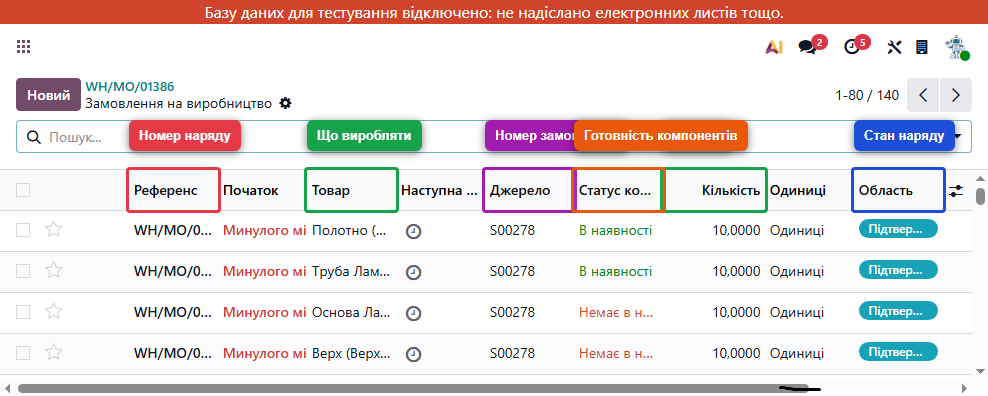
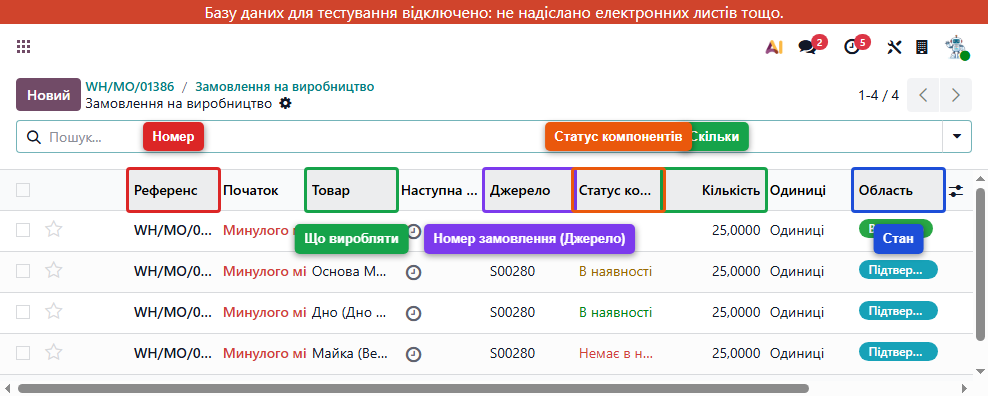
Add glossary, replace 'наряд' with 'замовлення на виробництво', add screenshots 02-10

diff --git a/README.md b/README.md
@@ -1,141 +1,156 @@
 # Як працювати з виробництвом біг-бегів в Odoo
 
-Цей документ — для команди MidasPack. Для всіх, хто проводить наряди на виробництво в Odoo і відвантажує готовий товар клієнтам. Усе показано покроково: куди заходити, що бачиш на екрані, що натискати, що відбувається після.
+Цей документ — для команди MidasPack. Для всіх, хто проводить замовлення на виробництво в Odoo і відвантажує готовий товар клієнтам. Усе показано покроково: куди заходити, що бачиш на екрані, що натискати, що відбувається після.
 
-Зверни увагу: за створення замовлень (з клієнтом, розмірами і кількістю) відповідає **конфігуратор MidasPack** — окрема програма, у якій працюють менеджери продажу. У Odoo замовлення прилітає вже готове. Тобі в Odoo не треба нічого створювати руками — лише виконувати наряди, які з'являються.
+Зверни увагу: за створення замовлень (з клієнтом, розмірами і кількістю) відповідає **конфігуратор MidasPack** — окрема програма, у якій працюють менеджери продажу. У Odoo замовлення прилітає вже готове. Тобі в Odoo не треба нічого створювати руками — лише виконувати замовлення на виробництво, які з'являються.
 
 ---
 
-## 1. Куди заходити, щоб побачити нові наряди
+## Глосарій термінів
 
-Кожне замовлення з конфігуратора, як менеджер натисне «Odoo →», породжує в Odoo список нарядів на виробництво. Щоб їх побачити, заходимо в модуль виробництва.
+Щоб не плутати — три головні документи, які бачитимеш в Odoo:
+
+- **Замовлення на продаж** (англійською Sales Order, SO). Створюється з конфігуратора, коли менеджер оформлює замовлення клієнта. Містить клієнта, товар (наприклад «Майка»), кількість. У Odoo лежить у меню **Продажі**.
+- **Замовлення на виробництво** (англійською Manufacturing Order, MO). Це **виробниче завдання** — «виготовити стільки-то того-то». Створюється Odoo автоматично з замовлення на продаж. Лежить у меню **Виробництво → Операції → Замовлення на виробництво**. Це **основний документ, з яким ти працюєш**.
+- **Замовлення на доставку** (англійською Delivery Order). Створюється Odoo автоматично, коли головне замовлення на виробництво завершилось. Це для складу — щоб відвантажити клієнту. Лежить у меню **Склад → Операції → Замовлення на доставку**.
+
+Ще терміни, які знадобляться по ходу:
+
+- **Дочірнє замовлення на виробництво** — це замовлення на виробництво окремої частини біг-бега (наприклад Полотно, Дно, Основа). Виконуються першими.
+- **Головне замовлення на виробництво** — це замовлення на сам готовий біг-бег. Виконується в кінці, коли всі частини зроблені.
+
+---
+
+## 1. Куди заходити, щоб побачити нові замовлення на виробництво
+
+Кожне замовлення на продаж з конфігуратора, як менеджер натисне «Odoo →», породжує в Odoo одне або кілька замовлень на виробництво. Щоб їх побачити, заходимо в модуль виробництва.
 
 **Шлях у меню:** Виробництво → Операції → Замовлення на виробництво.
 
-![Список нарядів](screenshots/01-list-mo.png)
+![Список замовлень на виробництво](screenshots/01-list-mo.png)
 
-На цьому екрані ти бачиш усі наряди — і свіжі, і ті, що вже в роботі або виконані. Колонки кажуть тобі:
+На цьому екрані ти бачиш усі замовлення на виробництво — і свіжі, і ті, що вже в роботі, і виконані. Колонки кажуть тобі:
 
-- **Номер** — унікальний код наряду (типу WH/MO/01386). Це твій орієнтир.
+- **Референс (номер)** — унікальний код, типу WH/MO/01386. Це твій орієнтир для пошуку.
 - **Товар** — що саме треба виробити.
 - **Кількість** — скільки штук за планом.
-- **Походження** — звідки прилетів цей наряд (це номер клієнтського замовлення, типу S00280).
-- **Стан** — на якій стадії наряд: Чернетка → Підтверджено → У процесі → Виконано.
+- **Джерело** — номер замовлення на продаж, від якого прилетіло (типу S00280). За цим номером можна знайти всі споріднені замовлення на виробництво.
+- **Статус компонентів** — кольоровий значок: **В наявності** (зелений) = все є, можна робити; **Очікує** = чекає інше замовлення; **Немає в наявності** (червоний) = бракує сировини.
+- **Область (стан)** — на якій стадії: Чернетка → Підтверджено → У процесі → Виконано.
 
-Твоя задача в чергу — взяти в роботу наряди зі станом **«Підтверджено»** і **зеленою позначкою готовності**. Як їх розпізнати — у наступному розділі.
+Твоя задача в чергу — взяти в роботу замовлення на виробництво зі станом **«Підтверджено»** і **зеленою позначкою «В наявності»**. Як їх розпізнати — у наступному розділі.
 
 ---
 
-## 2. Як читається один наряд
+## 2. Як читається одне замовлення на виробництво
 
-Натисни на рядок наряду в списку — відкриється повна форма. Тут вся інформація про цей конкретний наряд.
+Натисни на рядок у списку — відкриється повна форма замовлення на виробництво. Тут вся інформація про це конкретне виробниче завдання.
 
-![Форма наряду](screenshots/02-mo-form.png)
+![Форма замовлення на виробництво](screenshots/02-mo-form.png)
 
 Що ти бачиш на формі:
 
-- **Номер наряду** угорі великими літерами.
+- **Номер** угорі великими літерами (наприклад WH/MO/01388).
 - **Товар і кількість** — що і скільки виробляєш.
 - **Стан** угорі справа (Чернетка / Підтверджено / Виконано) — підсвічений поточний.
-- **Готовність компонентів** — кольоровий індикатор: зелена «В наявності» (все готово) або «Немає в наявності» (бракує). Це найважливіше для рішення «можна робити чи ще ні».
+- **Статус компонентів** — кольоровий індикатор: зелена **«В наявності»** або **«Немає в наявності»**. Це найважливіше для рішення «можна робити чи ще ні».
+- **Специфікація** — рецепт, за яким виробляється (Odoo сам підставляє).
 - **Вкладка «Компоненти»** внизу — список того, що буде використано у виробництві. Поряд з кожним компонентом теж є кольоровий значок.
 
-Просте правило: **стан «Підтверджено» + усі компоненти «В наявності» → можна виробляти**. Усе інше — поки чекаємо або з'ясовуємо.
+Просте правило: **стан «Підтверджено» + статус компонентів «В наявності» → можна виробляти**. Усе інше — поки чекаємо або з'ясовуємо.
 
 ---
 
-## 3. Одне замовлення = кілька нарядів
+## 3. Одне замовлення на продаж = кілька замовлень на виробництво
 
-Один біг-бег складається з кількох частин: полотно, дно, основа, стропи, верх. Тому Odoo на одне клієнтське замовлення створює **відразу декілька нарядів** — окремий під кожну частину, плюс один окремий на сам готовий біг-бег.
+Один біг-бег складається з кількох частин: полотно, дно, основа, стропи, верх. Тому Odoo на одне замовлення на продаж створює **відразу декілька замовлень на виробництво** — окреме під кожну частину, плюс одне окреме на сам готовий біг-бег.
 
-Наряди в одному замовленні мають однакове **Походження** (наприклад, усі з S00280). Так можна побачити, що це «одна команда нарядів».
+Замовлення на виробництво від однієї покупки мають однакове **Джерело** (наприклад, усі з S00280). Так ти бачиш, що це «одна команда» виробничих завдань.
 
-**Послідовність виробництва — знизу вгору.** Спочатку роби наряди на прості частини (типу Полотна), потім — на складніші частини (Дно, Основа), і **в останню чергу** — наряд на сам готовий біг-бег.
+**Послідовність виробництва — знизу вгору.** Спочатку роби замовлення на виробництво окремих частин (типу Полотна), потім — на більші частини (Дно, Основа), і **в останню чергу** — головне замовлення на сам готовий біг-бег.
 
-Як зрозуміти, що йде «першим»: дивись на готовність компонентів.
-- Зелена «В наявності» **одразу** — найпростіший наряд, починай з нього.
-- «Очікує» — наряд чекає, поки іншій буде виконаний. До нього доберешся пізніше.
+Як зрозуміти, що йде «першим»: дивись на статус компонентів.
+- Зелена **«В наявності»** одразу — найпростіше дочірнє замовлення, починай з нього.
+- «Очікує» — це замовлення чекає, поки інше буде виконане. До нього доберешся пізніше.
 
-![Список зі стрілками послідовності](screenshots/03-order-of-mo.png)
+![Послідовність виконання](screenshots/03-order-of-mo.png)
 
 ---
 
 ## 4. Один цикл виробництва — крок за кроком
 
-Робимо живий приклад: виконуємо наряд **WH/MO/01389 — Полотно (100, 130, 100), 25 шт**.
+Робимо живий приклад: виконуємо дочірнє замовлення на виробництво **WH/MO/01388 — Дно (Дно глухе, 90, 130), 25 шт**.
 
-**Крок 1.** Знайди наряд у списку, клацни — відкриється форма. Перевір: стан «Підтверджено», компоненти «В наявності» (зелене).
+**Крок 1.** Знайди замовлення в списку (можна через пошук зверху, ввівши `01388`), клацни — відкриється форма. Перевір: стан «Підтверджено», статус компонентів «В наявності» (зелене).
 
 ![Форма перед запуском](screenshots/04-before-validate.png)
 
 **Крок 2.** Натисни рожеву кнопку **«Виготовити все»** угорі ліворуч.
 
-![Кнопка Виготовити все](screenshots/05-button-make-all.png)
-
 **Що станеться одразу:**
 - Стан угорі переключиться на **«Виконано»**.
-- На склад надійде 25 шт Полотна.
-- Сировина (Тканина) спишеться у потрібній кількості.
+- На склад надійде вказана кількість готового товару.
+- Сировина (компоненти) спишеться у потрібній кількості.
 - У стрічці подій праворуч додасться запис «Виконано» з твоїм іменем і часом.
 - На формі з'явиться нова кнопка **«Відстеження»** — звіт, який показує з якої сировини зроблено цю партію і куди потім поїде.
 
-![Форма після Виготовити все](screenshots/06-after-validate.png)
+![Форма після виконання](screenshots/06-after-validate.png)
 
-Все, наряд готовий. Він тепер не блокує наступні — якщо інші наряди чекали Полотно, то воно у них одразу зарезервується.
+Все, замовлення на виробництво завершене. Воно більше не блокує наступних — якщо інші замовлення чекали цей товар, він у них одразу зарезервується.
 
 ---
 
-## 5. Якщо компоненти жовті або червоні
+## 5. Якщо статус компонентів не зелений
 
-Не кожен наряд можна виконати одразу. Якщо ти відкрив форму і бачиш не зелене — ось що це значить і що робити.
+Не кожне замовлення можна виконати одразу. Якщо ти відкрив форму і бачиш не зелене — ось що це значить і що робити.
 
-**Жовтий або «Очікує»:** компонент потребує іншого наряду, який ще не виконаний. Це **нормально**, треба просто спочатку завершити той інший наряд. Як знайти який саме — у вкладці «Компоненти» зазвичай видно «звідки» очікується (інший номер MO).
+**«Очікує»** (жовтий або синій значок): компонент потребує іншого замовлення на виробництво, яке ще не виконано. Це **нормально**, треба просто спочатку завершити то інше. У вкладці «Компоненти» зазвичай видно «звідки» очікується компонент.
 
-**Червоний або «Немає в наявності»:** сировина закінчилась на складі. **Не намагайся натиснути «Виготовити все»** — Odoo не пропустить. Замість цього:
+**«Немає в наявності»** (червоний значок): сировина закінчилась на складі. **Не намагайся натиснути «Виготовити все»** — Odoo не пропустить. Дій:
 
-1. Подивись у вкладці «Компоненти», якого саме компонента бракує (червоний значок поруч).
+1. Подивись у вкладці «Компоненти», якого саме компонента бракує (червоний значок поруч з рядком).
 2. Передай у відділ постачання чи на склад інформацію: бракує такого-то товару у такій-то кількості.
-3. Коли товар з'явиться на складі — повертайся на наряд і натисни **«Перевірте наявність»**. Якщо тепер всього вистачає, значок стане зеленим. Тоді можна Виготовити.
+3. Коли товар з'явиться на складі — повертайся на замовлення і натисни **«Перевірте наявність»**. Якщо тепер всього вистачає, значок стане зеленим. Тоді можна Виготовити.
 
-![Приклад жовтого і червоного](screenshots/07-yellow-red.png)
+![Приклад з жовтим і червоним](screenshots/07-yellow-red.png)
 
 ---
 
-## 6. Виконання головного наряду на готовий біг-бег
+## 6. Виконання головного замовлення на виробництво (готовий біг-бег)
 
-Коли всі частини (Полотно, Дно, Основа і так далі) вже виконано — приходить час самого головного наряду, того, що виробляє готовий біг-бег.
+Коли всі дочірні замовлення (на частини) виконано — приходить час головного замовлення на виробництво, того, що виготовляє готовий біг-бег для клієнта.
 
-Він **завжди** в одному замовленні і його видно за товаром: це той товар, який замовив клієнт (наприклад «Майка (Верх відкритий, Дно глухе)»).
+Воно **завжди** в одній «команді» з дочірніми (однакове джерело SO). Впізнати його легко за товаром: це той товар, який замовив клієнт (наприклад «Майка (Верх відкритий, Дно глухе)»).
 
 Перш ніж тиснути «Виготовити все», переконайся:
-- Усі **дочірні наряди** (на частини) — у стані «Виконано».
-- **Власна сировина** головного наряду (нитки, манжети, клей) — теж «В наявності» зеленим.
+- Усі **дочірні замовлення** (на частини) — у стані «Виконано».
+- **Власна сировина** головного замовлення (нитки, манжети, клей) — теж «В наявності» (зелена).
 
 Якщо щось не так — натиснеш і Odoo покаже діалог **«Недійсна операція»** з переліком, чого саме бракує.
 
 ![Діалог Недійсна операція](screenshots/08-invalid-operation.png)
 
 У такому випадку:
-- Якщо в переліку — частини біг-бега (Основа, Дно, Верх...): спочатку виконай ті дочірні наряди.
-- Якщо в переліку — сировина (Нитка, Манжет, Клей): передавай на склад/постачання, поповнюй.
+- Якщо в переліку **частини біг-бега** (Основа, Дно, Верх...): спочатку виконай ті дочірні замовлення на виробництво.
+- Якщо в переліку **сировина** (Нитка, Манжет, Клей): передавай на склад/постачання, поповнюй.
 
-Як усе виправиш — натискай «Виготовити все» ще раз. Тоді головний наряд закриється і на склад надійде готовий біг-бег у вказаній кількості.
+Як усе виправиш — натискай «Виготовити все» ще раз. Тоді головне замовлення закриється і на склад надійде готовий біг-бег у вказаній кількості.
 
 ---
 
 ## 7. Відвантаження готового товару клієнту
 
-Як тільки головний наряд виконано, Odoo автоматично створює **Замовлення на доставку** (Delivery Order) — це той документ, за яким склад відвантажує клієнту.
+Як тільки головне замовлення на виробництво виконано, Odoo автоматично створює **Замовлення на доставку** — це той документ, за яким склад відвантажує клієнту.
 
 **Шлях у меню:** Склад → Операції → Замовлення на доставку.
 
-![Список доставок](screenshots/09-delivery-list.png)
+![Список замовлень на доставку](screenshots/09-delivery-list.png)
 
-У списку шукай рядок з номером твого SO (наприклад S00280). Стан зазвичай **«Готово»** (зелене), якщо все виробництво завершилось.
+У списку шукай рядок з номером твого замовлення на продаж (наприклад S00280) у колонці **Джерело**. Стан зазвичай **«Готово»** (зелене), якщо все виробництво завершилось.
 
 Клацни — відкриється форма доставки.
 
-![Форма доставки](screenshots/10-delivery-form.png)
+![Форма замовлення на доставку](screenshots/10-delivery-form.png)
 
 Натисни кнопку **«Підтвердити»** — товар спишеться зі складу до клієнта. У стрічці подій з'явиться запис «Виконано». На цьому замовлення повністю закрите.
 
@@ -147,7 +162,7 @@
 
 - **Червоний «Немає в наявності» довше доби** — звертайся в постачання.
 - **На формі нема жодних кнопок, або форма виглядає дивно** — пиши Оксані.
-- **Наряд у стані «Чернетка» і у нього порожнє поле «Специфікація»** (рецепт) — це баг конфігуратора. Не намагайся виправити сам, передавай розробникам (Дімі).
+- **Замовлення на виробництво у стані «Чернетка» і у нього порожнє поле «Специфікація»** — це баг конфігуратора. Не намагайся виправити сам, передавай розробникам (Дімі).
 
 ---
 
